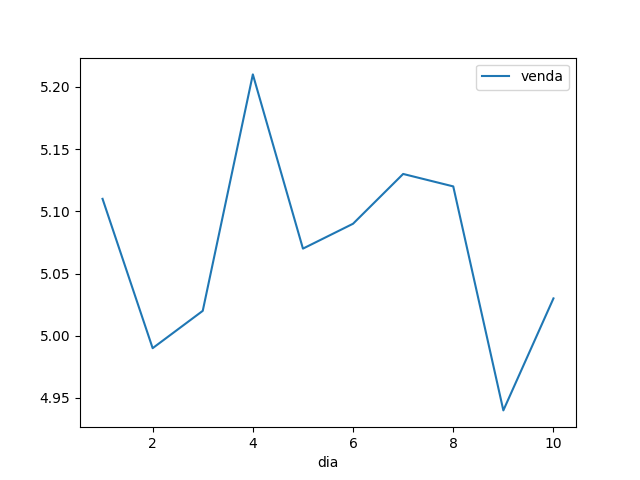
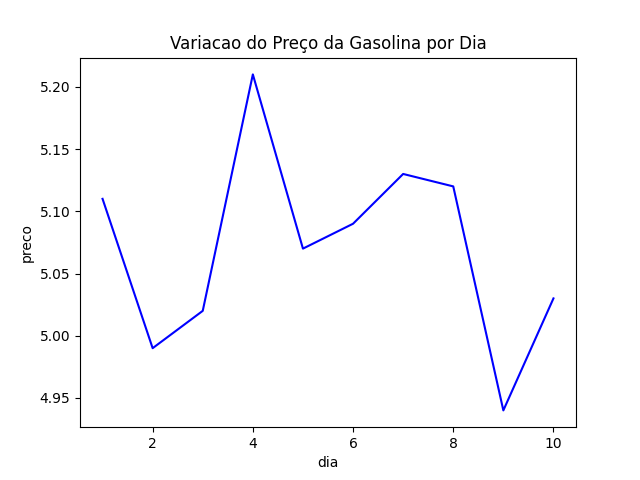
Tarefa do Modulo 19

diff --git a/gasolina.py b/gasolina.py
@@ -1,12 +1,16 @@
+# código de geração do gráfico 
 # Importando as bibliotecas
 import csv
 import pandas as pd
 import matplotlib.pylab as plt
+import seaborn as sns
 
 # Lendo arquivo CSV e criando Dataframe
 preco_gasolina_df = pd.read_csv('gasolina.csv')
+preco_gasolina_df = preco_gasolina_df.rename(columns={'venda':'preco'})
 preco_gasolina_df
 
 # Gerando grafico de linhas e salvado o grafico como .png
-preco_gasolina_df.plot('dia',"venda")
+sns.lineplot(data=preco_gasolina_df, x='dia', y='preco', color='blue')
+plt.title('Variacao do Preço da Gasolina por Dia')
 plt.savefig('gasolina.png')
